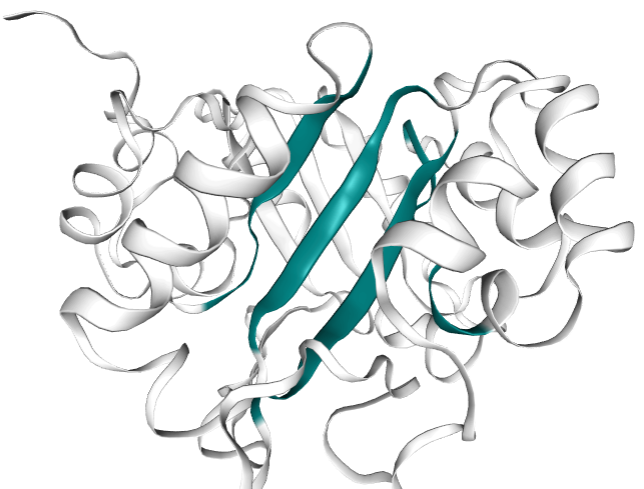
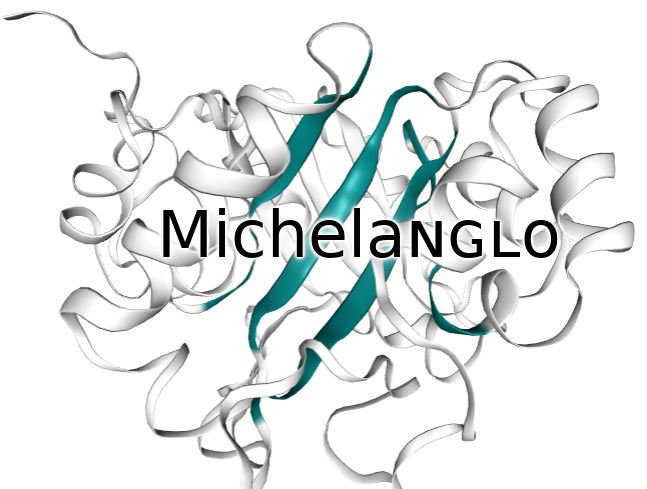
:art: Twitter can have it's thumbnails!!

diff --git a/michelanglo_app/thumbnail.js b/michelanglo_app/thumbnail.js
@@ -1,0 +1,66 @@
+/*
+This nodejs script loads and saves the image to make a thumbnail for twitter & co..
+*/
+
+const puppeteer = require('puppeteer');
+const uuid = process.argv[2]
+const timeout = (ms) => new Promise(resolve => setTimeout(resolve, ms));
+
+
+process.on('UnhandledPromiseRejectionWarning', err => process.exit(1) ); //this does nothing.
+
+(async () => {
+  const browser = await puppeteer.launch(); //{headless: false}
+  const page = await browser.newPage();
+  await page.goto(`http://localhost:8088/data/${uuid}?columns_viewport=12`);
+  //const errorLogger = (err) =>  console.log("Internal error: " + err.toString());
+  //page.on("pageerror", errorLogger);
+  //page.on("error", errorLogger);
+  await page.click('body');
+  await timeout(3000); //safe side.
+  await page._client.send('Page.setDownloadBehavior', {behavior: 'allow', downloadPath: './michelanglo_app/user-data/'});
+  let blob = await page.evaluate(
+				(uuid) => NGL.getStage()
+					     .makeImage( {trim: true, antialias: true, transparent: false})
+					     .then((blob) => NGL.download(blob, `${uuid}.png`))
+				, uuid)
+  await timeout(2000);
+  await browser.close();
+})();
+
+
+
+// JUNK!
+
+//const NGL = require('ngl'); cannot run headlessly.
+//const fs = require('fs');
+
+  //await page.waitForNavigation({waitUntil: 'domcontentloaded'}); //https://github.com/GoogleChrome/puppeteer/issues/3338
+  //const navigationPromise = page.waitForNavigation({ waitUntil: 'load' });
+
+
+  //await navigationPromise;
+
+/*
+  let blob = await page.evaluate( async () => await NGL.getStage().makeImage( {trim: true, antialias: true, transparent: false})
+				  )
+  console.log(JSON.stringify(blob)); //{}
+  await timeout(1000);
+  console.log(blob.constructor.name); // "object"   
+  //console.log([Blob, Promise].filter((cls) => blob instanceof cls)[0].name) //https://stackoverflow.com/questions/14653349/node-js-can%C2%B4t-create-blobs
+  console.log(JSON.stringify(blob)); //{}
+   
+   //await  fs.writeFile('NGL.png', new Buffer(blob, 'base64'));
+*/
+
+/*
+  
+  //await page.screenshot({path: 'example.png'});
+  const blob = await page.evaluate(()=> NGL.getStage().makeImage( {trim: true, antialias: true, transparent: false}));
+  console.log(blob);
+  console.log(await page.evaluate(()=> NGL.getStage()));
+  await  fs.writeFile('NGL.png', new Buffer(blob, 'base64'));
+  //console.log(blob);
+  await browser.close();
+*/
+

diff --git a/michelanglo_app/views/page_serving.py b/michelanglo_app/views/page_serving.py
@@ -122,9 +122,14 @@ def userdata_view(request):
         settings['no_buttons'] = True
     else:
         settings['no_buttons'] = False
-    if not 'columns_viewport' in settings:
+    if 'columns_viewport' in request.params:
+        settings['columns_viewport'] = int(request.params['columns_viewport'])
+        settings['columns_text'] = 12 - settings['columns_viewport']
+    elif not 'columns_viewport' in settings:
         settings['columns_viewport'] = 9
         settings['columns_text'] = 3
+    else:
+        pass #use the default settings within the page.
     if not 'location_viewport' in settings:
         settings['location_viewport'] = 'left'
     settings['current_page'] = 'NOT A MENU OPTION....'
@@ -148,13 +153,20 @@ def thumbnail(request):
     pagename = request.matchdict['id']
     page = Page(pagename)
     if os.path.exists(page.thumb):
-        reponse = FileResponse(page.thumb)
-    else: #if not page.exists(True):
-        reponse = FileResponse(os.path.join('michelanglo_app', 'static','tim_barrel.png'))
-    reponse.headers.update({
+        response = FileResponse(page.thumb)
+    elif not page.exists(True):
+        # shouldn't this be a 404?
+        response = FileResponse(os.path.join('michelanglo_app', 'static','tim_barrel.png'))
+    else: # first time round!
+        if not os.system(f'node michelanglo_app/thumbnail.js {pagename}'):
+            response = FileResponse(page.thumb)
+        else:
+            log.error(f'Thumbnail generation failed for {pagename}')
+            response = FileResponse(os.path.join('michelanglo_app', 'static', 'tim_barrel.png'))
+    response.headers.update({
         'Access-Control-Allow-Origin': '*',
     })
-    return reponse
+    return response
 
 @view_config(route_name='save_pdb', renderer='string')
 def save_pdb(request):
